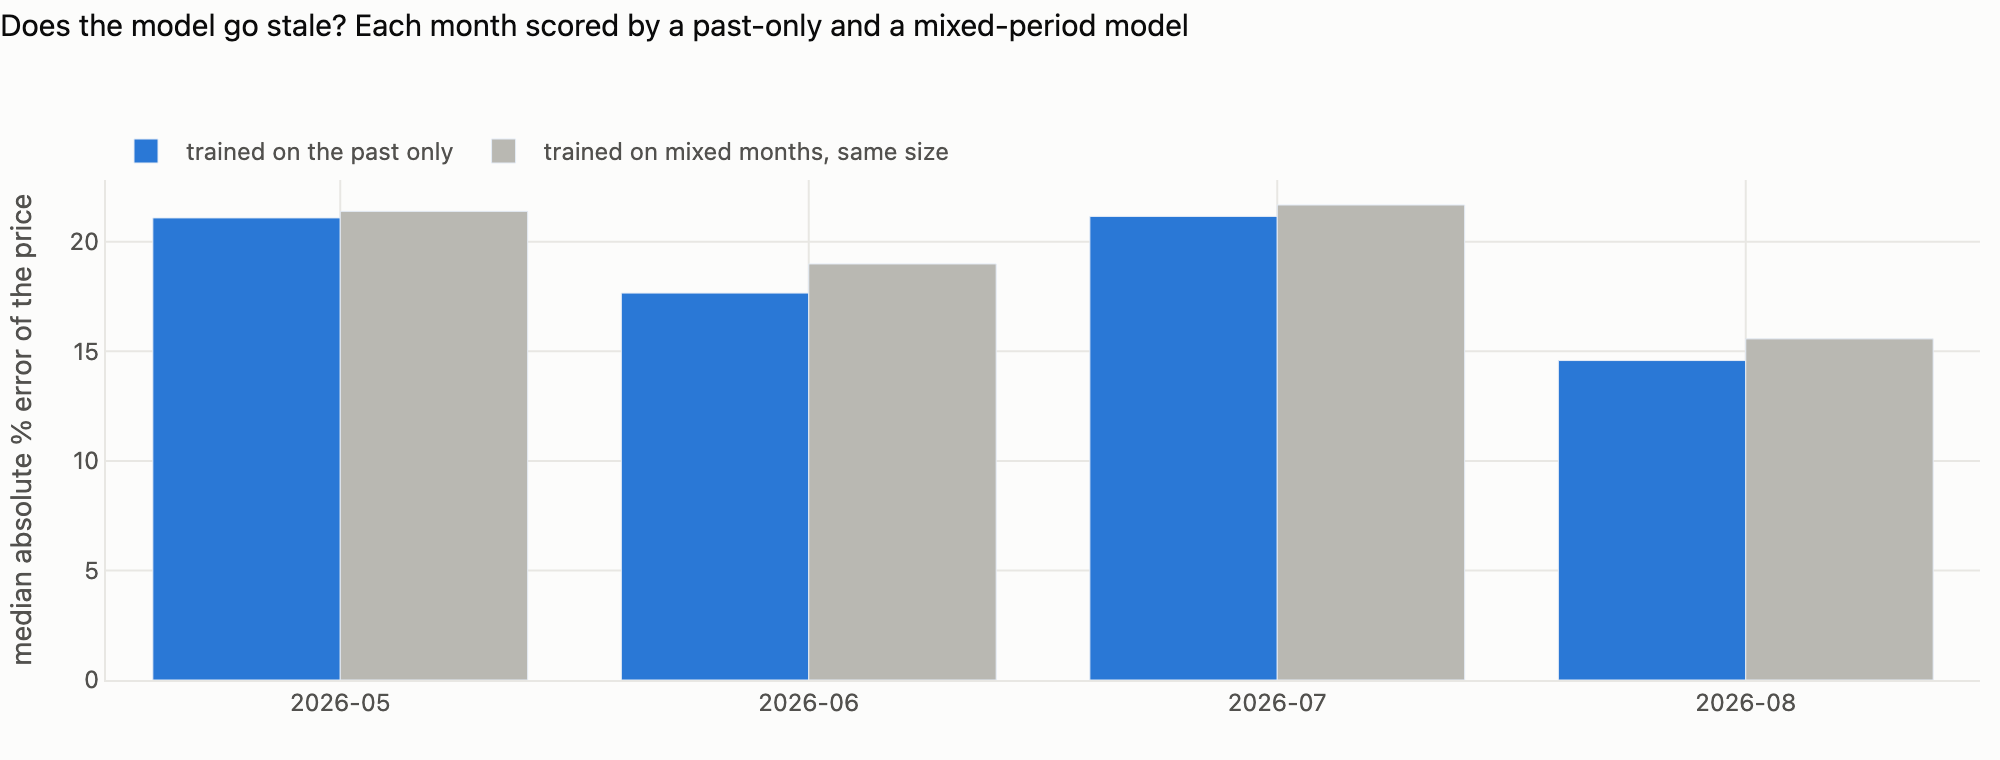
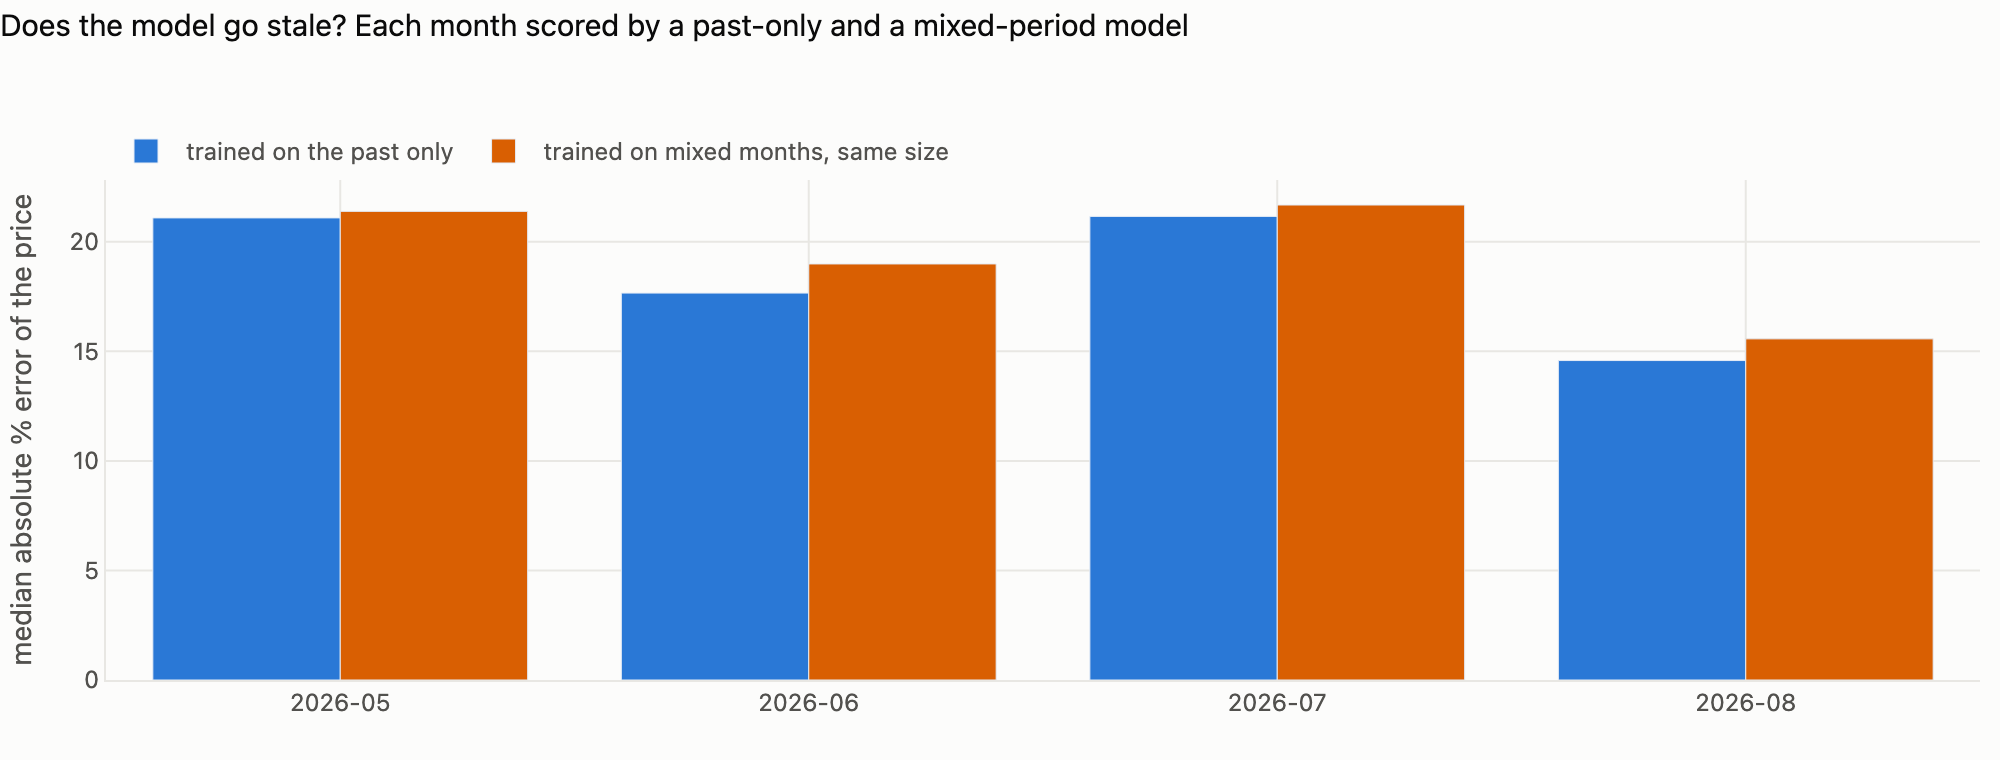
Update from the private repo at bfa2b08

diff --git a/src/analysis/modeling_report.py b/src/analysis/modeling_report.py
@@ -17,7 +17,7 @@ from sklearn.pipeline import make_pipeline
 from sklearn.preprocessing import StandardScaler
 
 from src.analysis.eda import LABELS
-from src.analysis.html_report import BLUE, BLUES, GREY, MUTED, RED, page, plots_html, save_pngs, section, styled, table_html, tile
+from src.analysis.html_report import BLUE, BLUES, GREY, MUTED, ORANGE, RED, page, plots_html, save_pngs, section, styled, table_html, tile
 from src.config import ROOT
 from src.modeling.dataset import load_usable
 from src.modeling.ensemble import MODEL_FEATURES, add_words, fit_parts, text_scores
@@ -96,7 +96,7 @@ def errors_by_city(segments: pd.DataFrame) -> go.Figure:
     fig = go.Figure(go.Bar(x=city.median_ape * 100, y=[f"{c} (n={n})" for c, n in zip(city.index, city.n)], orientation="h",
                            marker_color=BLUE, hovertemplate="%{y}: median error %{x:.1f}%<extra></extra>"))
     fig.update_xaxes(title="median absolute % error on test listings (small n: read with care)")
-    return styled(fig, "Test error by city", height=460)
+    return styled(fig, f"Test error runs from {city.median_ape.iloc[0] * 100:.0f}% in {city.index[0]} to {city.median_ape.iloc[-1] * 100:.0f}% in {city.index[-1]}", height=460)
 
 
 def shap_values(model, x: pd.DataFrame) -> pd.DataFrame:
@@ -173,14 +173,14 @@ def segment_figure(segments: pd.DataFrame) -> go.Figure:
                            marker_color=[RED if abs(b) > 0.10 else BLUE for b in shown.bias],
                            hovertemplate="%{y}<br>median error %{x:.1f}% on %{customdata[0]} listings, bias %{customdata[1]:+.1f}%<extra></extra>"))
     fig.update_xaxes(title="median absolute % error, out-of-fold on the training part (red: bias beyond ±10%)")
-    return styled(fig, "Where the error sits", height=640)
+    return styled(fig, f"The largest error sits in {shown.name.iloc[-1]}: {shown.median_ape.iloc[-1] * 100:.0f}%", height=640)
 
 
 def backtest_figure(backtest: pd.DataFrame) -> go.Figure:
     fig = go.Figure([go.Bar(x=part.target_month, y=part.median_ape * 100, name=label, marker_color=colour, customdata=part.train_rows,
                             hovertemplate="%{x}: %{y:.1f}% (trained on %{customdata} listings)<extra>" + label + "</extra>")
                      for label, colour, part in (("trained on the past only", BLUE, backtest[backtest.train == "past"]),
-                                                 ("trained on mixed months, same size", GREY, backtest[backtest.train == "mixed"]))])
+                                                 ("trained on mixed months, same size", ORANGE, backtest[backtest.train == "mixed"]))])
     fig.update_layout(barmode="group")
     fig.update_xaxes(type="category")  # month labels, not dates
     fig.update_yaxes(title="median absolute % error of the price", rangemode="tozero")
@@ -202,7 +202,7 @@ def dot_rows(rows: pd.DataFrame, title: str, height: int) -> go.Figure:
     fig = go.Figure([
         go.Scatter(x=rows.random, y=rows.index, mode="markers", name="random CV", marker=dict(color=BLUE, size=10),
                    hovertemplate="%{y}: %{x:.1f}%<extra>random CV</extra>"),
-        go.Scatter(x=rows.spatial, y=rows.index, mode="markers", name="spatial-block CV", marker=dict(color=MUTED, size=10, symbol="diamond"),
+        go.Scatter(x=rows.spatial, y=rows.index, mode="markers", name="spatial-block CV", marker=dict(color=ORANGE, size=10, symbol="diamond"),
                    hovertemplate="%{y}: %{x:.1f}%<extra>spatial-block CV</extra>"),
     ])
     fig.update_xaxes(title="median absolute % error, cross-validation on the training part")
@@ -216,11 +216,11 @@ def ablation_bars(exp: pd.DataFrame) -> go.Figure:
     names = change.index.str.removeprefix("E7 without ")
     fig = go.Figure([
         go.Bar(x=change.random, y=names, orientation="h", name="random CV", marker_color=BLUE, hovertemplate="%{y}: %{x:+.2f} points<extra>random CV</extra>"),
-        go.Bar(x=change.spatial, y=names, orientation="h", name="spatial-block CV", marker_color=GREY, hovertemplate="%{y}: %{x:+.2f} points<extra>spatial CV</extra>"),
+        go.Bar(x=change.spatial, y=names, orientation="h", name="spatial-block CV", marker_color=ORANGE, hovertemplate="%{y}: %{x:+.2f} points<extra>spatial CV</extra>"),
     ])
     fig.update_layout(barmode="group")
     fig.update_xaxes(title="change in median % error when the group is removed (+ means the group was helping)")
-    return styled(fig, "Ablation: what happens when each feature group is removed", height=520, legend=True)
+    return styled(fig, f"Removing {names[-1]} hurts the spatial-block score most ({change.spatial.iloc[-1]:+.1f} points)", height=520, legend=True)
 
 
 if __name__ == "__main__":

diff --git a/src/pipeline/usage.py b/src/pipeline/usage.py
@@ -1,6 +1,6 @@
 """Weekly usage check of the Google Cloud side against the free tier: Cloud Run requests (and 429s), vCPU-seconds and GiB-seconds of the `api`
 service from Cloud Monitoring, the last 7 days and month to date, a full-month projection at the 7-day pace (month to date is too short to
-project from early in a month), the image registry and the data bucket. The cost table itself is only in the console (Billing, Reports).
+project from early in a month), the image registry and the data bucket (size and Class A/B operations, the part of the bucket that is billed). The cost table itself is only in the console (Billing, Reports).
 Runs as a stage of the weekly job (token from the metadata server) and by hand (`make usage`, token from ./gcloud.sh).
 `usage()` returns warnings when a projection passes WARN_SHARE of a free amount, so the job fails and the alert emails."""
 
@@ -15,6 +15,9 @@ import httpx
 PROJECT, REGION, SERVICE = "jabodetabek-house-price", "asia-southeast2", "api"
 FREE = {"requests": 2_000_000, "vcpu_s": 180_000, "gib_s": 360_000}  # Cloud Run request-based billing, per month (free-features page, read 2026-10-31)
 FREE_REGISTRY_GB, FREE_BUCKET_GB = 0.5, 5.0
+FREE_CLASS_A, FREE_CLASS_B = 5_000, 50_000  # Cloud Storage operations a month in a free-tier US region; the bucket is in us-central1
+CLASS_A = {"WriteObject", "ListObjects"}  # the methods this pipeline uses; the 2026-11 bill matched these two
+CLASS_B = {"GetObjectMetadata", "ReadObject"}
 WARN_SHARE = 0.5
 METRICS = {"vcpu_s": "container/cpu/allocation_time", "gib_s": "container/memory/allocation_time", "instance_s": "container/billable_instance_time"}
 METADATA = "http://metadata.google.internal/computeMetadata/v1/instance/service-accounts/default/token"
@@ -72,6 +75,19 @@ def bucket_gb(token: str) -> tuple[int, float]:
     return len(names), total / 1e9
 
 
+def bucket_ops(token: str, start: datetime, end: datetime) -> dict[str, float]:
+    """Cloud Storage requests per method over [start, end), all buckets of the project."""
+    iso = lambda t: t.isoformat().replace("+00:00", "Z")
+    params = {"filter": 'metric.type="storage.googleapis.com/api/request_count"', "interval.startTime": iso(start), "interval.endTime": iso(end),
+              "aggregation.alignmentPeriod": f"{int((end - start).total_seconds())}s", "aggregation.perSeriesAligner": "ALIGN_SUM",
+              "aggregation.crossSeriesReducer": "REDUCE_SUM", "aggregation.groupByFields": "metric.label.method"}
+    totals: dict[str, float] = {}
+    for s in get(token, f"https://monitoring.googleapis.com/v3/projects/{PROJECT}/timeSeries", **params).get("timeSeries", []):
+        method = s["metric"]["labels"]["method"]
+        totals[method] = totals.get(method, 0.0) + sum(float(p["value"].get("int64Value") or 0) for p in s["points"])
+    return totals
+
+
 def usage() -> list[str]:
     token = access_token()
     now = datetime.now(timezone.utc)
@@ -94,6 +110,11 @@ def usage() -> list[str]:
     print(f"image registry `{SERVICE}`: {images} image(s), {reg:.2f} GB of {FREE_REGISTRY_GB} GB free; buckets ({buckets}): {bucket:.3f} GB of {FREE_BUCKET_GB} GB free")
     if reg > FREE_REGISTRY_GB:  # cents a month: shown, but not worth a failed job and an email
         print(f"NOTE image registry above the free {FREE_REGISTRY_GB} GB: delete old images, or deploy the API on the job's image so only one is kept")
+    ops = bucket_ops(token, month_start, now)
+    class_a, class_b = (sum(ops.get(m, 0.0) for m in group) for group in (CLASS_A, CLASS_B))
+    print(f"bucket operations this month: Class A {class_a:,.0f} of {FREE_CLASS_A:,} free, Class B {class_b:,.0f} of {FREE_CLASS_B:,} free")
+    if class_a > 0.8 * FREE_CLASS_A or class_b > 0.8 * FREE_CLASS_B:  # cents a month ($0.005 per 1,000 Class A): shown, not worth a failed job
+        print("NOTE bucket operations near or above the free amount: the extra is billed per 1,000; many small files in state/ drive it")
     print("Costs: console, Billing, Reports (group by SKU): Cloud Run should show its usage cancelled by 'Other savings' (the free-tier credit).")
     for w in warnings:
         print("WARN", w)

diff --git a/src/analysis/html_report.py b/src/analysis/html_report.py
@@ -7,9 +7,10 @@ import pandas as pd
 import plotly.graph_objects as go
 from plotly.io import to_html
 
-# dataviz reference palette (light): text ink, surface, grid, single-series blue, diverging red / neutral / blue
+# chart-design palette (light): text ink, surface, grid, blue (focus), orange (second series), diverging red / neutral / blue, grey (context only)
 INK, MUTED, SURFACE, GRID = "#0b0b0b", "#52514e", "#fcfcfb", "#e8e7e3"
 BLUE, RED, NEUTRAL, GREY = "#2a78d6", "#e34948", "#f0efec", "#b9b8b2"
+ORANGE = "#d95f02"
 BLUES = [[0, "#cde2fb"], [0.5, "#3987e5"], [1, "#0d366b"]]
 DIVERGING = [[0, RED], [0.5, NEUTRAL], [1, BLUE]]
 
